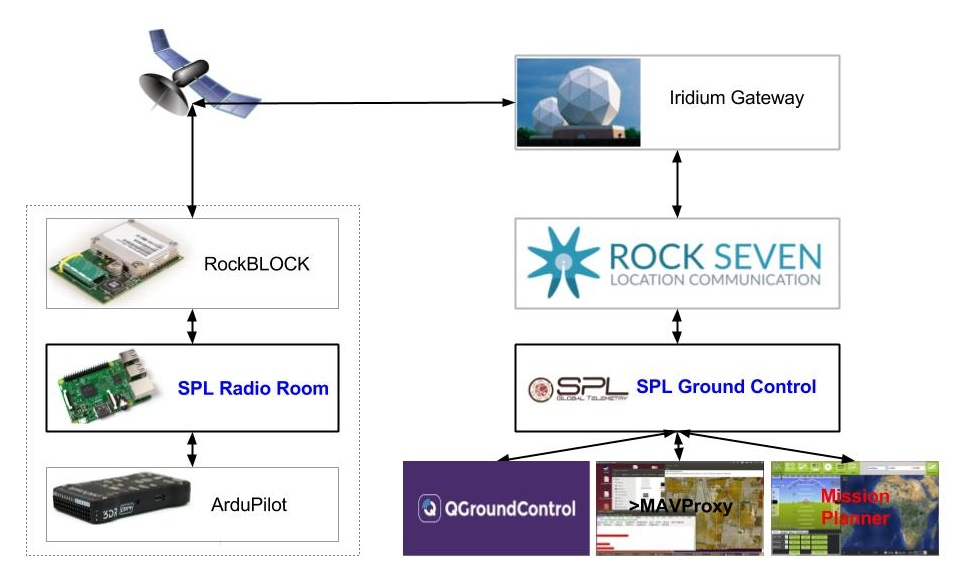
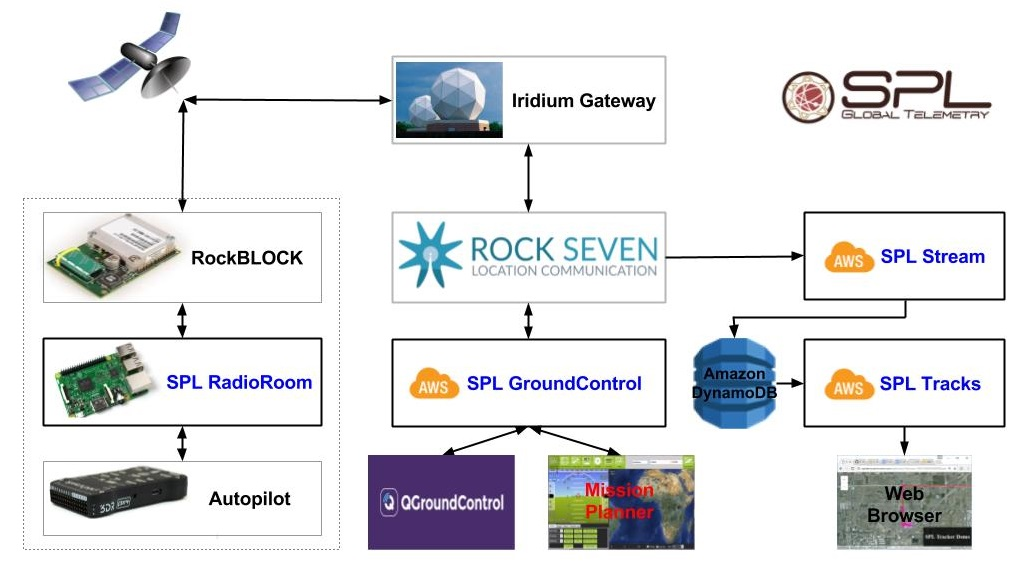
Updated spl.jpg

diff --git a/index.md b/index.md
@@ -8,21 +8,20 @@ summary: BLOS Telemetry Systems from Envirover.
 ---
 
 SPL and NVI are global satellite telemetry solution for unmanned vehicles controlled by [ArduPilot](http://ardupilot.org/) or [PX4](http://px4.io/) autopilot. 
+With SPL or NVI you can control your unmanned vehicle on the other side of the Earth almost the same way you would with radio telemetry. 
 
-## SPL Satellite Telemetry
-
-[SPL](spl.htmp) uses Iridium short burst data (SBD) satellite communication technology provided by [Rock Seven Mobile](http://www.rock7mobile.com/). 
-
-With SPL you can:
+With SPL or NVI you can:
 - Track position, attitude, and velocity of your vehicles anywhere on Earth.
 - Monitor vital signs of your vehicles, such as battery charge, system status, and temperature.
-- Update on-board parameters and send commands and missions to your vehicles.
+- Update on-board parameters and send commands and missions to your vehicles using popular ground control stations such as Mission Planner or QGrouindControl.
 - Control gymbals, and RC servos connected to autopilots.
 
-Essentially, with SPL you could control your unmanned vehicle on the other side of the Earth almost the same way you would with radio telemetry. SPL was designed to work with popular ground control stations such as Mission Planner, QGrouindControl, and MAVProxy.
+## SPL Global Telemetry
 
-Because Iridium SBD is very high latency and low bandwidth, SPL does not support FPV video streaming. 
+[SPL](spl.html) uses Iridium short burst data (SBD) satellite communication technology provided by [Rock Seven Mobile](http://www.rock7mobile.com/). 
 
-## NVI Satellite Telemetry 
+Because of high latency and low bandwidth of Iridium SBD, SPL does not support video streaming. 
+
+## NVI BLOS Telemetry 
 
 [NVI](nvi.html) is designed for satellite or cellular communication over TCP/IP protocol.

diff --git a/pages/spl/spl.md b/pages/spl/spl.md
@@ -17,8 +17,6 @@ With SPL you can:
 
 Essentially, with SPL you could control your unmanned vehicle on the other side of the Earth almost the same way you would with radio telemetry. SPL was designed to work with popular ground control stations such as Mission Planner, QGrouindControl, and MAVProxy.
 
-Not only does SPL transmit messages between autopilot and ground control stations, it also filters messages and aggregates data to adapt MAVLink protocol for high latency asynchronous SBD communication.
-
 ![SPL System Architecture](images/spl.jpg)
      
 SPL uses Iridium short burst data (SBD) satellite communication technology provided by [Rock Seven Mobile](http://www.rock7mobile.com/). 
@@ -45,8 +43,6 @@ SPL GroundControl is a MAVLink proxy server for ArduPilot drones that uses Iridi
 ## SPL Stream and SPL Tracks
 
 Optional SPL Stream and SPL Tracks web services provide a solution for storing and visualizing data reported by SPL RadioRoom.
-
-![SPL Stream and SPL Tracks](images/spltracks.jpg)
 
 SPL Stream web service saves messages received from SPL RadioRoom to AWS DynamoDB database service.
 
